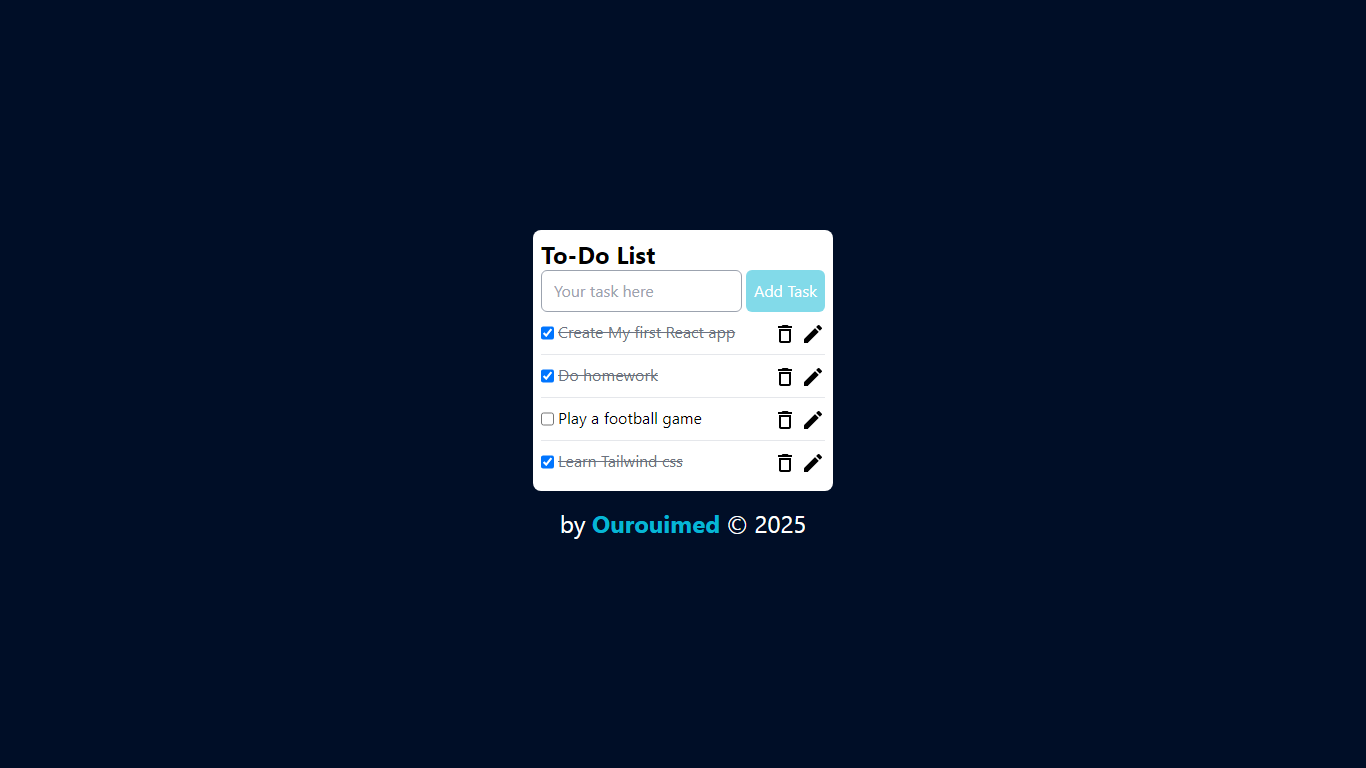
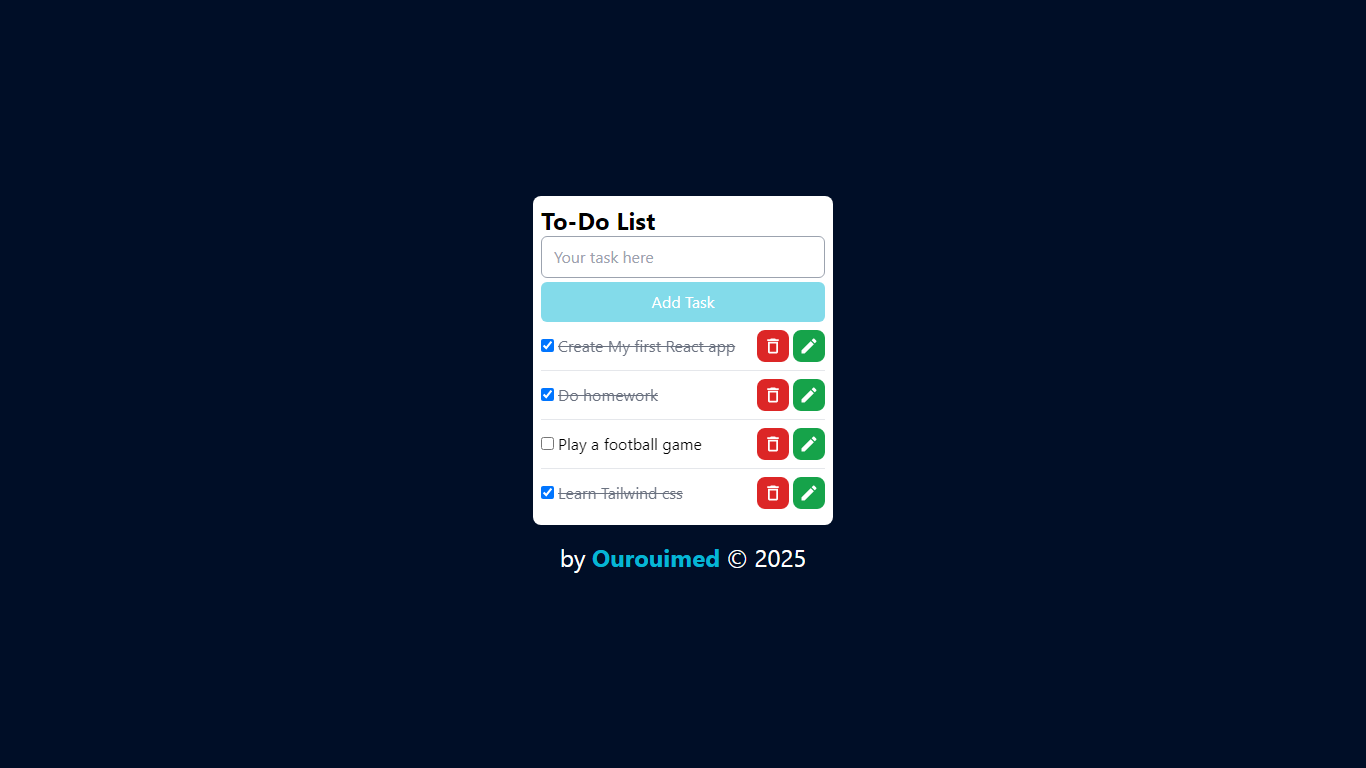
make it more responsive

Changed region(s): [[0.369, 0.25, 0.6149, 0.75]]

diff --git a/src/App.js b/src/App.js
@@ -45,7 +45,7 @@ function App() {
   // Render tasks
   const AllTasks = TaskList.map((task) => {
     return (
-      <li key={task.id} className="flex align-center gap-1 py-2">
+      <li key={task.id} className="flex items-center gap-1 py-2">
         <input
           type="checkbox"
           id={task.id}
@@ -58,12 +58,12 @@ function App() {
         >
         {task.title}
         </label>
-        <div className="flex align-center gap-1">
-          <button onClick={() => RemoveTask(task.id)}>
-            <DeleteOutline className="text-5xl" />
+        <div className="flex items-center gap-1">
+          <button onClick={() => RemoveTask(task.id)} className="flex justify-center items-center bg-red-600 h-[2rem] aspect-square rounded-lg">
+            <DeleteOutline className="text-white" fontSize="small"/>
           </button>
-          <button onClick={() => UpdateTask(task)}>
-            <Edit />
+          <button onClick={() => UpdateTask(task)} className="flex justify-center items-center bg-green-600 h-[2rem] aspect-square rounded-lg">
+            <Edit className="text-white" fontSize="small"/>
           </button>
         </div>
       </li>
@@ -73,11 +73,10 @@ function App() {
   return (
     <div className="todo-container px-2 py-2 bg-white rounded-lg w-[300px] max-w-[90%]">
       <h1 className="text-2xl font-bold">To-Do List</h1>
-      <div className="flex align-center gap-1">
         <input
           type="text"
           placeholder="Your task here"
-          className="grow py-2 px-3 border border-gray-400 rounded-md outline-none"
+          className="w-full py-2 px-3 border border-gray-400 rounded-md outline-none md:w-full"
           value={TaskVal}
           onChange={(e) => {
             setTaskVal(e.target.value);
@@ -86,11 +85,10 @@ function App() {
         <button
           onClick={addTask}
           disabled={!TaskVal.trim()}
-          className={`p-2 bg-cyan-500 rounded-md text-white  ${!TaskVal.trim() ? "opacity-50" : ""}`} 
+          className={`w-full mt-1 p-2 bg-cyan-500 rounded-md text-white  ${!TaskVal.trim() ? "opacity-50" : ""}`} 
         >
           Add Task
         </button>
-      </div>
       <ul className="divide-y">{AllTasks}</ul>
     </div>
   );

diff --git a/src/index.js b/src/index.js
@@ -8,7 +8,7 @@ const root = ReactDOM.createRoot(document.body);
 root.render(
   <React.StrictMode>
     <App />
-    <div className="text-white text-2xl">
+    <div className="text-white text-2xl text-center">
       by <a href="https://github.com/ourouimed" className='font-bold text-cyan-500'>Ourouimed</a> &copy; {new Date().getFullYear()}
     </div>
   </React.StrictMode>
